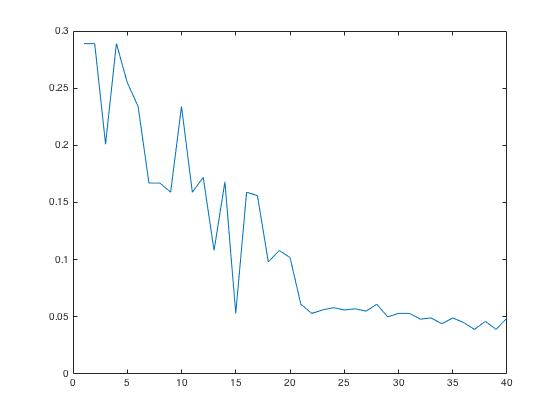
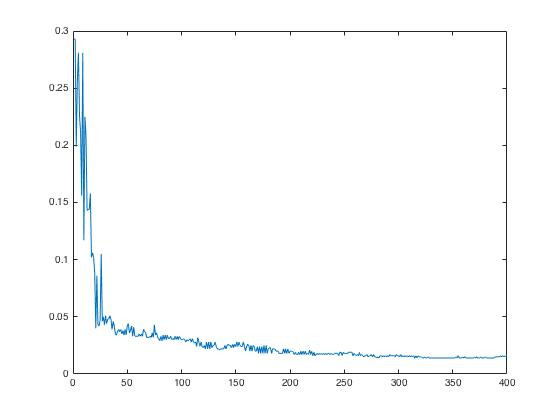
Parts 1-4 done - explanation for 4th

diff --git a/HW4/myMainScript.m b/HW4/myMainScript.m
@@ -1,8 +1,10 @@
 % Read X[n,d], Y[n,1] 
 
 A = [];
-load 'dataset2.mat' A;
-
+load 'dataset4.mat' A;
+A = A(randperm(2000), :);
+% B = A([1001:2000 1:1000], :);
+% A = B;
 test_data = A(1001:end,1:2);
 test_labels = A(1001:end,3);
 A = A(1:1000, :);
@@ -11,7 +13,7 @@ Y = A(:,3);
 
 
 % Training
-T = 40;
+T = 1000;
 row = size(X,1);
 col = size(X,2);
 w = ones(row,1)/ row;
@@ -19,7 +21,7 @@ H = zeros(T,4);
 train_err = zeros(T,1);
 test_err = zeros(T,1);
 for t = 1:T
-    disp('t-> ');
+    disp(t);
     [ i, theta, p, alpha, w ] = adaboost(X, Y, w);
 %     temp = [i, theta, p, alpha];
     H(t, :) = [i, theta, p, alpha];
@@ -32,7 +34,8 @@ end
 
 [pred, ~] = computeError(H(1:t, :), test_data, test_labels);
 plot(test_err);
-figure();scatter(test_data(:,1), test_data(:,2), 30, pred+2, 'x');
+figure();scatter(test_data(:,1), test_data(:,2), 30, pred, 'x');
+figure();scatter(test_data(:,1), test_data(:,2), 30, test_labels, 'x');
 
 % Testing
 
